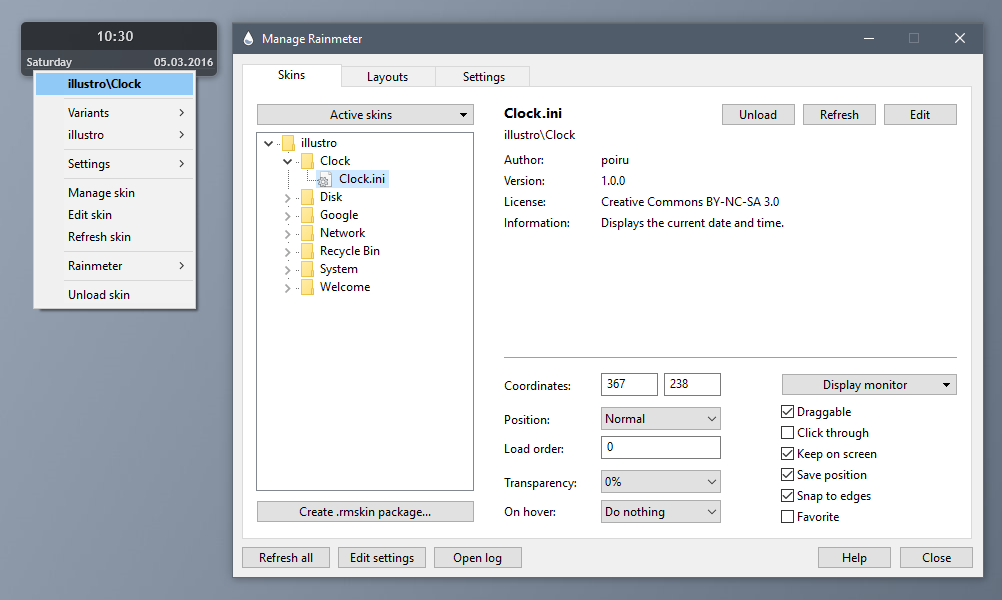
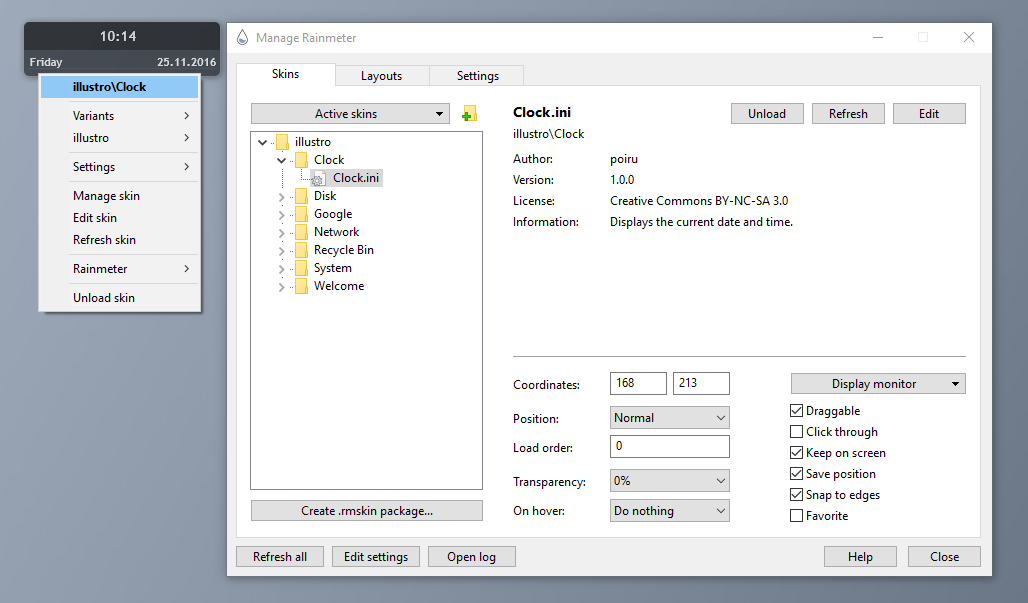
Create new skin button: Added information and images in various locations to document this new feature. Updated History for beta.

Changed region(s): [[0.0, 0.03, 0.99, 0.99]]

diff --git a/source/manual-beta/getting-started/creating-skins.html b/source/manual-beta/getting-started/creating-skins.html
@@ -27,7 +27,7 @@ title: 'Creating Skins'
 
 <h3 id="ImageEditor">Image Editor</h3>
 
-<p>Depending on the kind of skin you want to make, you may also want to find a good piece of image editing software. Rainmeter can create text by itself, as well as simple shapes, like rectangles and circles, with solid colors or color gradients. But anything more complex will require a separately-created image file.</p>
+<p>Depending on the kind of skin you want to make, you may also want to find a good piece of image editing software. Rainmeter can create text by itself, as well as simple or complex vector shapes, like rectangles and circles. But you will find you often want a separately-created image file.</p>
 
 <p><a href="http://www.adobe.com/products/photoshop.html">Adobe Photoshop</a> is the usual gold standard for image editing, but there are other, less expensive alternatives worth considering, such as <a href="http://www.getpaint.net/">Paint.NET</a>, <a href="http://www.gimp.org/">GIMP</a>, or <a href="http://inkscape.org/">Inkscape</a>.</p>
 
@@ -64,33 +64,20 @@ title: 'Creating Skins'
 
 <h2 id="YourFirstSkin">Your First Skin</h2>
 
-<div class="exampleprev floatright">
-	<img src="!img/getting-started/creating-folderoptions.png" class="lightbox thumbnail">
+<p>Until now, you have been working with the pre-made <em>illustro</em> skins that come with Rainmeter. Now, you're going to create a new skin from scratch.</p>
+
+<p>Creating a new skin is quite easy. In <a href="!user-interface/manage/#SkinsTab">Manage</a>, click the "Create new skin" button. This will create a new config folder in the skins list, offering a default starting name of "NewSkin". Name this folder "MyFirstSkin" and hit enter.</p>
+
+<p>This will do several things. It will create a new <a href="!skins/#Root">root config</a> folder with the name "MyFirstSkin". In it it will create an empty <a href="!skins/resources-folder/">@Resources</a> folder, will create a new basic MyFirstSkin.ini skin file, and will open this new skin in your default or defined text editor, so you are off and running.</p>
+
+<div class="exampleprev">
+	<img src="!img/getting-started/creating-newskin.png">
+	<p style="max-width:800px;">Your new skin is created in the proper folder, and ready to work with in Manage and your text editor.</p>			
 </div>
-
-<p>Until now, you have been working with the pre-made <em>illustro</em> skins that come with Rainmeter. Now, you're going to create a new skin from scratch. You will use this same skin throughout the <a href="!getting-started/basic-tutorials/">tutorials</a> that follow.</p>
-
-<p>Open your Skins folder in Windows Explorer, and create a new folder. Call it <code>MyFirstSkin</code>. Next, you're going to create <code>MyFirstSkin.ini</code>.</p>
-
-	<blockquote>
-		<p><i>Before you continue, there is a setting in Windows Explorer that you may want to change in order to make this process easier.</i></p>
-
-		<p><i>Press <code>Alt</code> to show the menu bar in Explorer, then select <code>Tools</code> &rarr; <code>Folder options</code>. Click the <code>View</code> tab, and uncheck the option labeled <code>Hide extensions for known file types</code>. Press <code>Ok</code> to apply the change.</i></p>
-
-		<p><i>You can now see the "extensions" that signify different file types in Windows Explorer, such as </i>.txt<i> and </i>.ini<i>. This also allows you to change the extension when you rename a file.</i></p>
-	</blockquote>
-
-<div class="exampleprev floatright">
-	<img src="!img/getting-started/creating-rename.png" class="lightbox thumbnail">
-</div>
-
-<p>Open your new "MyFirstSkin" folder. Right-click inside the empty folder, and select <code>New</code> &rarr; <code>Text Document</code>. Windows will create the new file, and allow you to type in a new name. Type <code>MyFirstSkin.ini</code>. Make sure to remove the ".txt" at the end of the file name. Windows will ask you if you're sure about changing the extension; click <code>Yes</code>.</p>
-
-<p>Finally&mdash;open the Rainmeter context menu and click <code>Refresh all</code> to make Rainmeter see the new skin in your library. Then, open the skin in your text editor.</p>
 
 <h3 id="HelloWorld">The "Hello, World!" Skin</h3>
 
-<p>The very first thing you're going to add to your skin is the <a href="!skins/rainmeter-section/">[Rainmeter] section</a>. This is a skin's "header" property, like the <code>&lt;head&gt;</code> tag in an HTML webpage. For now, your [Rainmeter] section will be mostly empty, except for one option:</p>
+<p>The very first thing you will see in your skin is the <a href="!skins/rainmeter-section/">[Rainmeter] section</a>. This is a skin's "header" property, like the <code>&lt;head&gt;</code> tag in an HTML webpage. In the [Rainmeter] section, you will see an <code>Update=1000</code> option. Like this:</p>
 
 <div class="noscroll">
 ``` txt
@@ -101,14 +88,14 @@ Update=1000
 
 <p>The <a href="!skins/rainmeter-section/#Update">Update</a> option is what sets the length of the skin's <a href="!skins/#Update">update cycle</a>. The length is given in milliseconds, or 1/1000ths of a second, so <code>Update=1000</code> means that the skin will update once per second. Updating is how the skin will react to changes in information. You'll see how this works in more detail later on.</p>
 
-<p>Now that you've given your skin a "head," it's time to give it a "body." You're going to create a <a href="!meters/string/">string meter</a>. This is one of the most common types of meters, and it is used to create <b>text</b>.</p>
+<p>Now that you've given your skin a "head," it's time to give it a "body." Let's change that default <a href="!meters/string/">string meter</a>. This is one of the most common types of meters, and it is used to create <b>text</b>.</p>
 
 <div class="noscroll">
 ``` txt
 [Rainmeter]
 Update=1000
 
-[MyMeter]
+[MeterString]
 Meter=String
 Text=Hello, world!
 ```

diff --git a/source/manual-beta/user-interface/manage.html b/source/manual-beta/user-interface/manage.html
@@ -58,6 +58,21 @@ title: 'Manage'
 <div style="clear: both;"></div>
 
 <div class="exampleprev floatright">
+<img src="!img/user-interface/Skins03a.png" class="lightbox">
+</div>
+
+<h3 id="CreateNewSkin">Create new skin</h3>
+<p>The "Create new skin" button will simplify creating a new root-level skin. It will create the folder under Skins, will create an empty @Resources folder, and will create and open the new skin in your default or defined text editor.</p>
+
+<p>When the button is clicked, enter the name of the new config / skin you wish to create, and hit "Enter".
+
+<p>You may edit the <a href="!user-interface/manage/#EditTempate">default template</a> used for creating a new skin.</p>
+
+<p>This is a "shortcut" for creating a single root-level skin. More complicated setups that require several skins under one root config folder will still require using Windows Explorer to create folders and files.</p>
+
+<div style="clear: both;"></div>
+
+<div class="exampleprev floatright">
 <img src="!img/user-interface/Skins03.png" class="lightbox">
 </div>
 
@@ -66,6 +81,7 @@ title: 'Manage'
 <p>Clicking on a skin will make that skin active in the Manage tab.</p>
 
 <div style="clear: both;"></div>
+
 
 <div class="exampleprev floatright">
 <img src="!img/user-interface/Skins04.png" class="lightbox">
@@ -203,3 +219,26 @@ title: 'Manage'
 <li><b>Show log file</b><br>If clicked, the Rainmeter.log file will be loaded in the text editor associated with .log files.</li>
 <li><b>Delete log file</b><br>If clicked, the Rainmeter.log file will be deleted. If <b>Log to file</b> is currently active, it will automatically be turned off.</li>
 </ul>
+
+<h3 id="EditTempate">Edit NewSkin.template file</h3>
+
+<p>When the <a href="#CreateNewSkin">Create new skin</a> button is used to create a new root-level skin, the new skin is initially populated with the contents of a file <b>NewSkin.template</b> which is stored in the <a href="!variables/built-in-variables/#SETTINGSPATH">settings folder</a>. This link will open this template file in your default or defined text editor, so you can adjust what is in a new skin as desired.</p>
+
+<p>The default template is:</p>
+```txt
+[Rainmeter]
+Update=1000
+AccurateText=1
+
+[Metadata]
+Name=
+Author=
+Information=
+Version=
+License=Creative Commons Attribution - Non - Commercial - Share Alike 3.0
+
+[Variables]
+
+[MeterString]
+Meter=String
+```

diff --git a/source/manual-beta/getting-started/basic-tutorials/launcher.html b/source/manual-beta/getting-started/basic-tutorials/launcher.html
@@ -5,11 +5,9 @@ title: 'Launcher'
 ---
 <h2>Creating a new skin</h2>
 
-<p>First, make sure you have gone through the guide on creating a simple "hello world" skin at <a href="!getting-started/creating-skins/">Creating Skins</a> so you understand how to create a .ini skin file in the Skins folder, and how to refresh Rainmeter so it sees your new entry.</p>
+<p>let's create a new folder under Skins, where we will store all of the skins we create in these tutorials. We want to keep them together in one <a href="!skins/#Root">root config</a> folder, so we can later look at how to share some settings and resources between them.</p>
 
-<p>So let's create a new folder under Skins, where we will store all of the skins we create in these tutorials. We want to keep them together in one <a href="!skins/#Root">root config</a> folder, so we can later look at how to share some settings and resources between them.</p>
-
-<p>In Windows Explorer, create a new folder called <b>Tutorials</b>. Under that folder, create another new folder called <b>Launcher</b>. In that <b>Tutorials\Launcher</b> folder, create a new empty text file. In Windows explorer, you can simply right-click in the folder and say "New / Text document". Give it the name <b>Launcher.ini</b> being sure that the <a href="!getting-started/creating-skins/#YourFirstSkin">extension</a> is <b>.ini</b> and not <b>.ini.txt</b>.</p>
+<p>In Windows Explorer, create a new folder called <b>Tutorials</b>. Under that folder, create another new folder called <b>Launcher</b>. In that <b>Tutorials\Launcher</b> folder, create a new empty text file. In Windows explorer, you can simply right-click in the folder and say "New / Text document". Give it the name <b>Launcher.ini</b>.</p>
 
 <p>Now, left-click the Rainmeter icon in the Windows notification area on your taskbar, to open the <a href="!user-interface/manage/#SkinsTab">Manage</a> dialog. Click on the <b>Refresh all</b> button on the bottom left, and you should see your new <b>Tutorials / Launcher</b> config in the list. Find <b>Launcher.ini</b> in the list, right-click it and say "Edit". This will open the new skin file in your default text editor. Don't load the skin just yet, we need to add some code first...</p>
 

diff --git a/source/manual-beta/getting-started/basic-tutorials/clock.html b/source/manual-beta/getting-started/basic-tutorials/clock.html
@@ -5,11 +5,9 @@ title: 'Clock'
 ---
 <h2>Creating your second tutorial skin</h2>
 
-<p>First, make sure you have gone through the guide on creating a simple "hello world" skin at <a href="!getting-started/creating-skins/">Creating Skins</a> so you understand how to create a .ini skin file in the Skins folder, and how to refresh Rainmeter so it sees your new entry.</p>
-
 <p>In the previous tutorial, you should have already created a folder under Skins called <b>Tutorials</b>. We are going to add a new folder under that one to create our new skin. Under <b>Skins\Tutorials\</b> create a new folder called <b>Clock</b>.
 
-<p>In that <b>Tutorials\Clock</b> folder, create a new empty text file. In Windows explorer, you can simply right-click in the folder and say "New / Text document". Give it the name <b>Clock.ini</b> being sure that the <a href="!getting-started/creating-skins/#YourFirstSkin">extension</a> is <b>.ini</b> and not <b>.ini.txt</b>.</p>
+<p>In that <b>Tutorials\Clock</b> folder, create a new empty text file. In Windows explorer, you can simply right-click in the folder and say "New / Text document". Give it the name <b>Clock.ini</b>.</p>
 
 <p>Now, left-click the Rainmeter icon in the Windows notification area on your taskbar, to open the <a href="!user-interface/manage/#SkinsTab">Manage</a> dialog. Click on the <b>Refresh all</b> button on the bottom left, and you should see your new <b>Tutorials / Clock</b> config in the list. Find <b>Clock.ini</b> in the list, right-click it and say "Edit". This will open the new skin file in your default text editor. Don't load the skin just yet, we need to add some code first...</p>
 

diff --git a/source/manual-beta/settings/index.html b/source/manual-beta/settings/index.html
@@ -51,6 +51,10 @@ Key=Value
 
 <p>This file records Windows' network usage statistics over time. These statistics are used by the <a href="!measures/net/">Net measures</a> to display "cumulative" network usage data. The contents of Rainmeter.stats may be cleared using the <a href="!bangs/#ResetStats">!ResetStats bang</a>.</p>
 
+<h3 id="NewSkinTempate">NewSkin.template</h3>
+
+<p>This file contains a template for a new skin used by the <a href="!user-interface/manage/#CreateNewSkin">Create new skin</a> button in Manage. This can be <a href="!user-interface/manage/#EditTempate">edited</a> as desired.</p>
+
 <h3 id="Layouts">Layouts</h3>
 
 <p>A <b>layout</b> (formerly <b>theme</b>) is a saved "session" or "state". The user can create a layout using the <a href="!user-interface/manage/#LayoutsTab">Manager</a>, which copies the settings in <a href="#RainmeterIni">Rainmeter.ini</a> to the layout file. These settings can later be restored using the Manager or the <a href="!bangs/#LoadLayout">!LoadLayout bang</a>. Layouts may also be <a href="!installing-skins/">installed with 3rd-party skins</a>.</p>

diff --git a/source/history.html b/source/history.html
@@ -7,6 +7,13 @@ title: 'Version History'
 
 <h2 id="4.0">Rainmeter 4.0</h2>
 
+<p><b>November 27, 2016 - Revision 2720</b></p>
+<ul>
+<li><b>Added</b> InputText plugin: Added InputLimit (default 0) option to limit the number of characters input.</li>
+<li><b>Added</b> InputText plugin: Added InputNumber (default 0) option to force numeric-only input.</li>
+<li><b>Added</b> Manage: Add a <a href="http://docs.rainmeter.net/manual-beta/user-interface/manage/#CreateNewSkin">Create new skin</a> button to the top of the skins list. This will create a new root-level config / skin using a skin template you can edit. The new skin will be selected in Manage and opened in your text editor.</li>
+<li><b>Fixed</b> Shape meter: Corrected an issue where using TransformationMatrix on a Shape meter would cause incorrect mouse detection.</li>
+
 <p><b>November 20, 2016 - Revision 2708</b></p>
 <ul>
 <li><b>Added</b> Shape meter: Added new Path shape to the Shape Meter.See the documentation at: <a href="https://docs.rainmeter.net/manual-beta/meters/shape/">Shape Meter</a>.</li>
